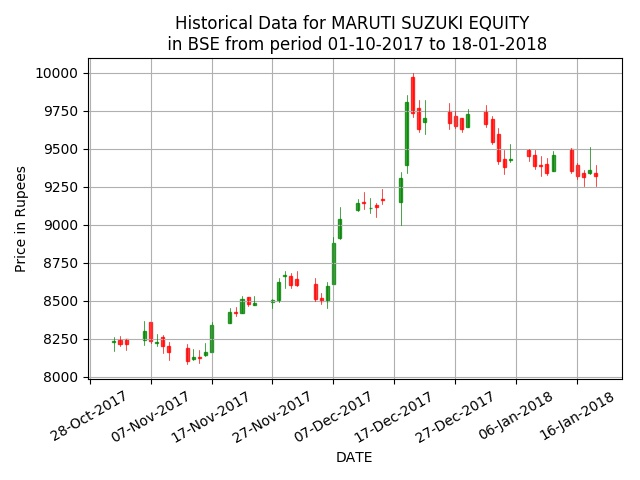
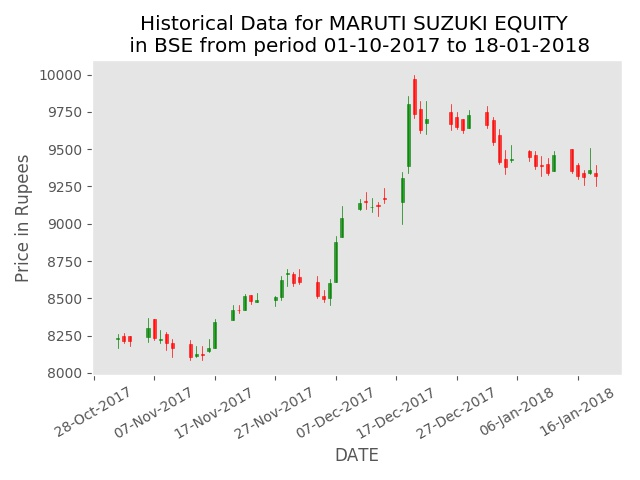
Done requested changes

diff --git a/Equity-graphs/plot.py b/Equity-graphs/plot.py
@@ -6,7 +6,7 @@ from matplotlib import dates, ticker
 import matplotlib as mpl
 from matplotlib.finance import candlestick_ohlc
 
-mpl.style.use('default')
+mpl.style.use('ggplot')
 
 fname = 'maruti.csv'
 
